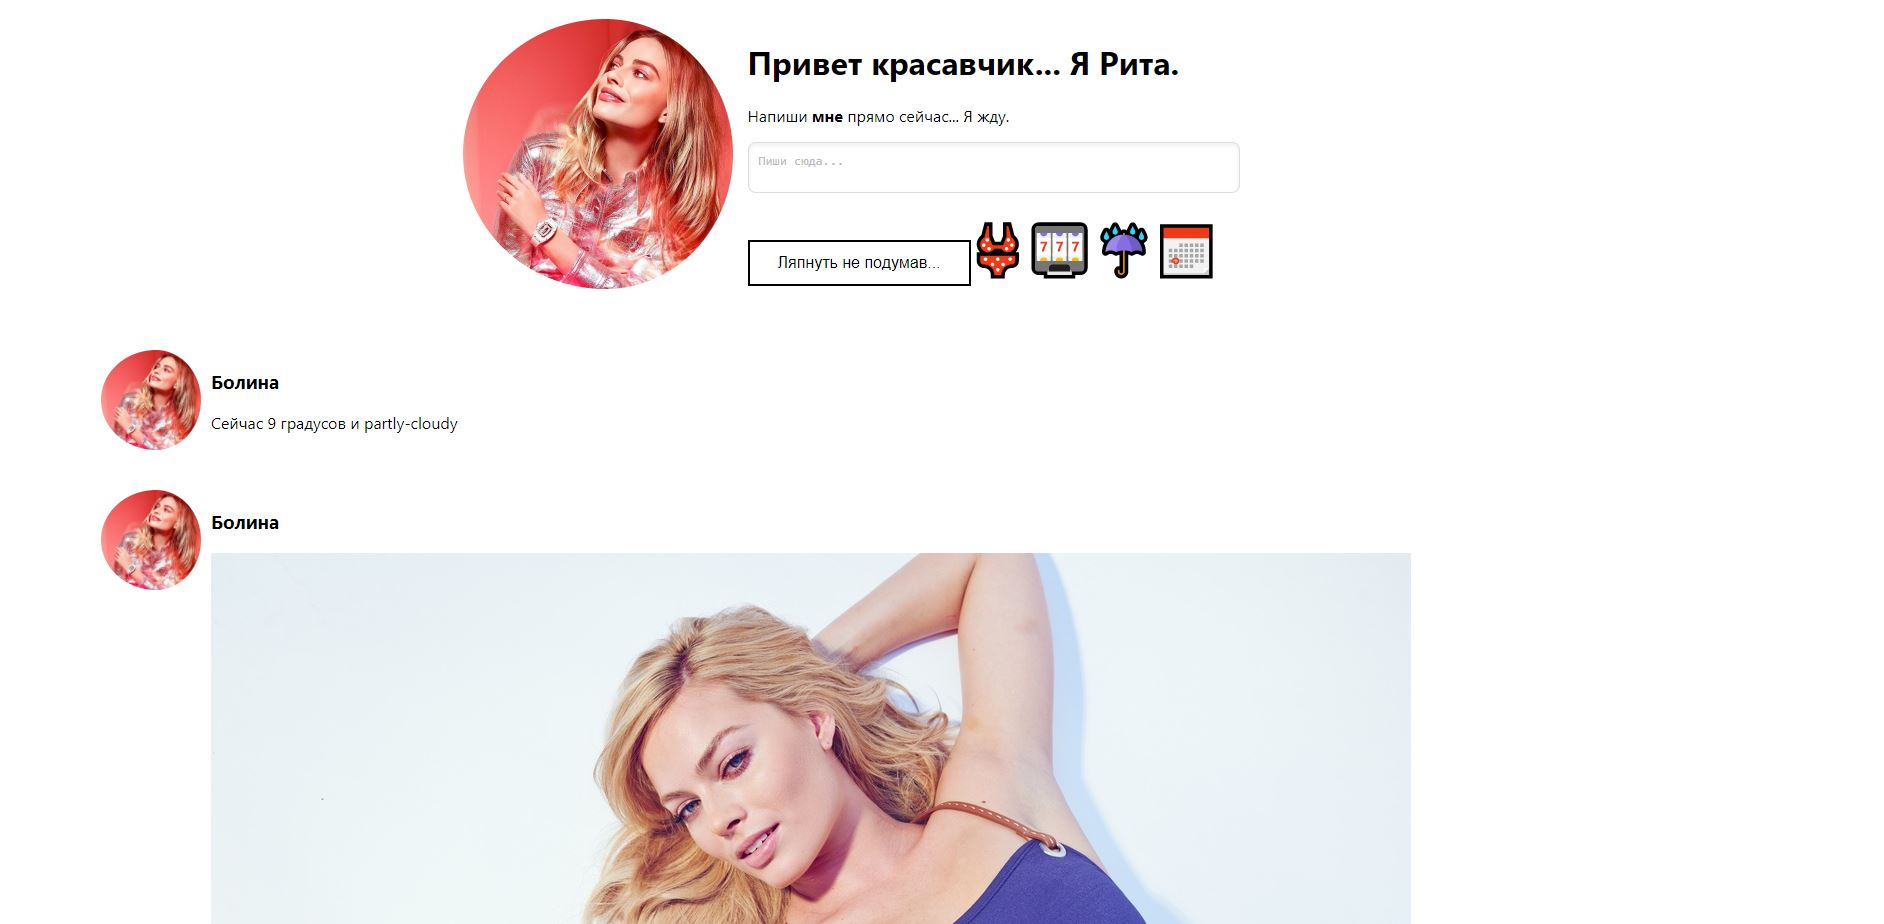
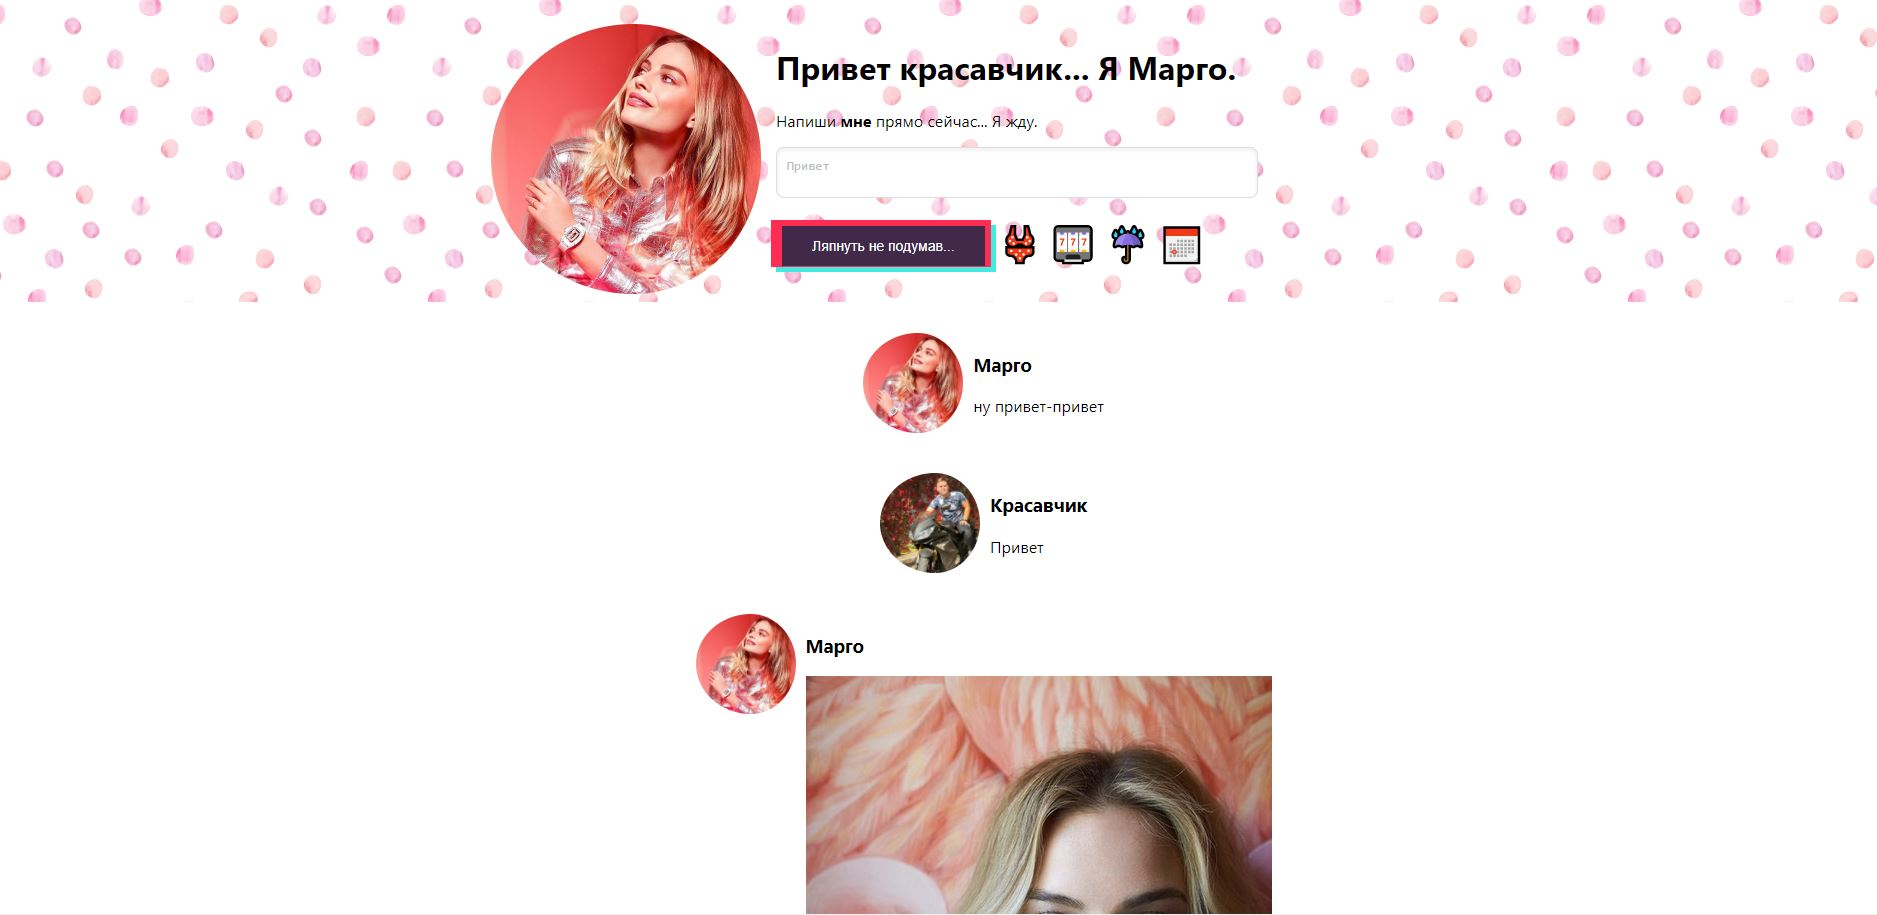
added a new nice button

diff --git a/front-end/src/components/input.js b/front-end/src/components/input.js
@@ -26,19 +26,14 @@ const Input = ({messages, setMessages, sendMessage}) => {
                     console.log(text)
                 })} value={text} className="form" name="message" id="message"/>
                 <br/>
-                <button
-                    onClick={() => {
-                        sendMessage(setIsThinking, text, setMessages, messages)
-                    }}
-                    className="button" type="submit" value="Ляпнуть не подумав...">
-                    Ляпнуть не подумав...
+                <button onClick={() => sendMessage(setIsThinking, text, setMessages, messages)}
+                        className="button-6"><span>Ляпнуть не подумав...</span>
                 </button>
-
                 <span className="bigFont"
                       onClick={() => {
                           fetch("http://localhost:8080/getSexyPhoto")
                               .then(response => response.text())
-                              .then(url=> {
+                              .then(url => {
                                   setMessages([{
                                       name: "Марго",
                                       image: url

diff --git a/front-end/src/index.css b/front-end/src/index.css
@@ -72,3 +72,54 @@ code {
   font-size: 35px;
   padding-left: 10px;
 }
+
+.button-6 {
+  background: transparent;
+  border-width: 0;
+  position: relative;
+  cursor: pointer;
+  font-size: 14px;
+  transition: .3s;
+  top: -6px;
+}
+
+.button-6 span {
+  display: block;
+  position: relative;
+  z-index: 3;
+  background: #41294a;
+  color: white;
+  padding: 0 30px;
+  line-height: 40px;
+}
+
+.button-6:before {
+  content: "";
+  position: absolute;
+  width: calc(100% + 5px);
+  height: calc(100% + 5px);
+  left: -5px;
+  top: -5px;
+  background: #ff2c54;
+  z-index: 1;
+  transition: .4s ease-out;
+}
+
+.button-6:after {
+  content: "";
+  position: absolute;
+  width: calc(100% + 5px);
+  height: calc(100% + 5px);
+  right: -5px;
+  bottom: -5px;
+  background: #41ebdf;
+  transition: .4s ease-out .1s;
+}
+
+.button-6:hover:before {
+  transform: translate(5px, 5px);
+}
+
+.button-6:hover:after {
+  transform: translate(-5px, -5px);
+}

diff --git a/src/main/java/bloodyenterprise/girlfriend/controllers/ImageController.java b/src/main/java/bloodyenterprise/girlfriend/controllers/ImageController.java
@@ -24,12 +24,6 @@ public class ImageController {
         return imageResolverService.getRandomPhoto();
     }
 
-    @AllArgsConstructor
-    @Data
-    private static class ImageUrlDto {
-        private String url;
-    }
-
     @CrossOrigin
     @GetMapping(value = "/image/{id}", produces = MediaType.IMAGE_JPEG_VALUE)
     public @ResponseBody byte[] exposeImages(@PathVariable int id) throws IOException {
